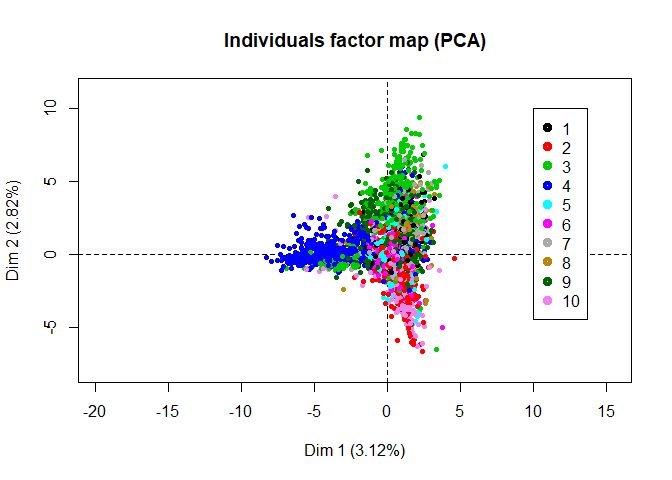
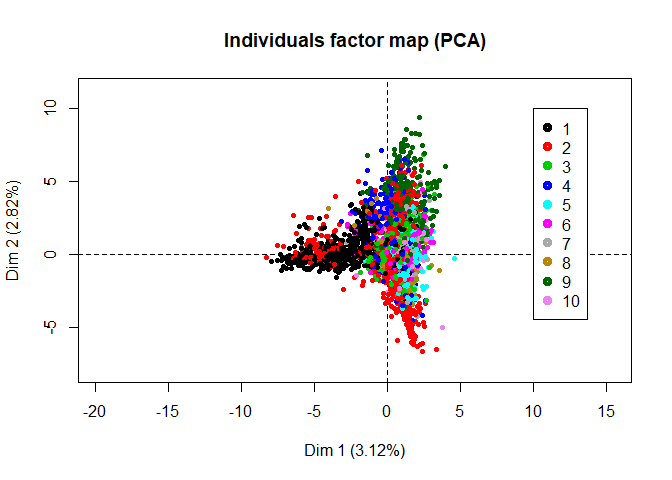
update Method

Changed region(s): [[0.375, 0.25, 0.6562, 0.7188]]

diff --git a/README.md b/README.md
@@ -2,8 +2,7 @@ Board Game
 ================
 Jui-Ying Hsieh, Li-Hsin Chen
 
-1. Background
--------------
+### 1. Background
 
 We enjoying playing baord games. We have collected more than 20 types of board games, and the number is still growing. We like to explore games, but play one new games after another blindly is not smart. There are evidence shown that more and more games are being created; 1600 games released in the last five years, while only 1086 games released in the 19th century. To explore games efficiently, we frequently visit the famous board game website BoardGameGeek (BGG). There is a comprehensive list of games including their rankings. Our approach to explore games is to review their rankings. We did actually find enjoyable games such as Agricola, Peurto Rico and Pandemic.
 
@@ -11,8 +10,7 @@ However, as we collect more and more games, we find out that rankings does not m
 
 Hence, we grabbed the data from BGG, and tried to build a board game reference system that help players find their favorite games. This project is about designing a board game reference system, Board Game Match, that find the most enjoyable games for users. We hope Board Game Match can save players time and effort for exploring new games.
 
-3. Method
----------
+### 2. Method
 
 Several fantastic algorithms have been invented and widely used in building a recommendation system in the past few years. The choice of algorithms highly depepends on the data used for the system. Based on the data we have, we choose [item-based collaborative filtering](https://en.wikipedia.org/wiki/Item-item_collaborative_filtering) method. In this method, recommendation is made by the similarity of items among each others, that is, how similar they are according to their features.
 
@@ -27,7 +25,7 @@ colnames(boardgame)
     ## [11] "avg_rating"  "geek_rating" "num_votes"   "image_url"   "age"        
     ## [16] "mechanic"    "owned"       "category"    "designer"    "weight"
 
-### 3.1 Expand Mechanic and Category Variables
+#### 2.1 Expand Mechanic and Category Variables
 
 Before using item-based collaborative filtering, we need to define the similarity between boardgames. We use only "mechanic" and "category" in the definition of similarity. There are 52 different mechanic types and 84 different categories. Hence, 136 (52 + 84) dummy variables are created to represent mechanic and category variables.
 
@@ -145,16 +143,16 @@ boardgame_cluster_all %>% group_by(cluster) %>% summarise(n=n())
     ## # A tibble: 10 x 2
     ##    cluster     n
     ##      <dbl> <int>
-    ##  1       1   346
-    ##  2       2   921
-    ##  3       3   425
-    ##  4       4   799
-    ##  5       5   310
-    ##  6       6   343
-    ##  7       7   269
-    ##  8       8   328
-    ##  9       9   672
-    ## 10      10   586
+    ##  1       1   944
+    ##  2       2  1066
+    ##  3       3   831
+    ##  4       4   502
+    ##  5       5   498
+    ##  6       6   278
+    ##  7       7   120
+    ##  8       8   240
+    ##  9       9   347
+    ## 10      10   173
 
 ``` r
 #=========================================================================
@@ -185,10 +183,8 @@ ggplot(data = d[1:10,],aes(x = reorder(word,-freq),y = freq)) +
 
 ![](README_files/figure-markdown_github/unnamed-chunk-7-1.png)
 
-4. Result
----------
+### 3. Result
 
-5. Future Work
---------------
+### 4. Future Work
 
 \*\* Combine current data with customer's data \*\* make better prediction
